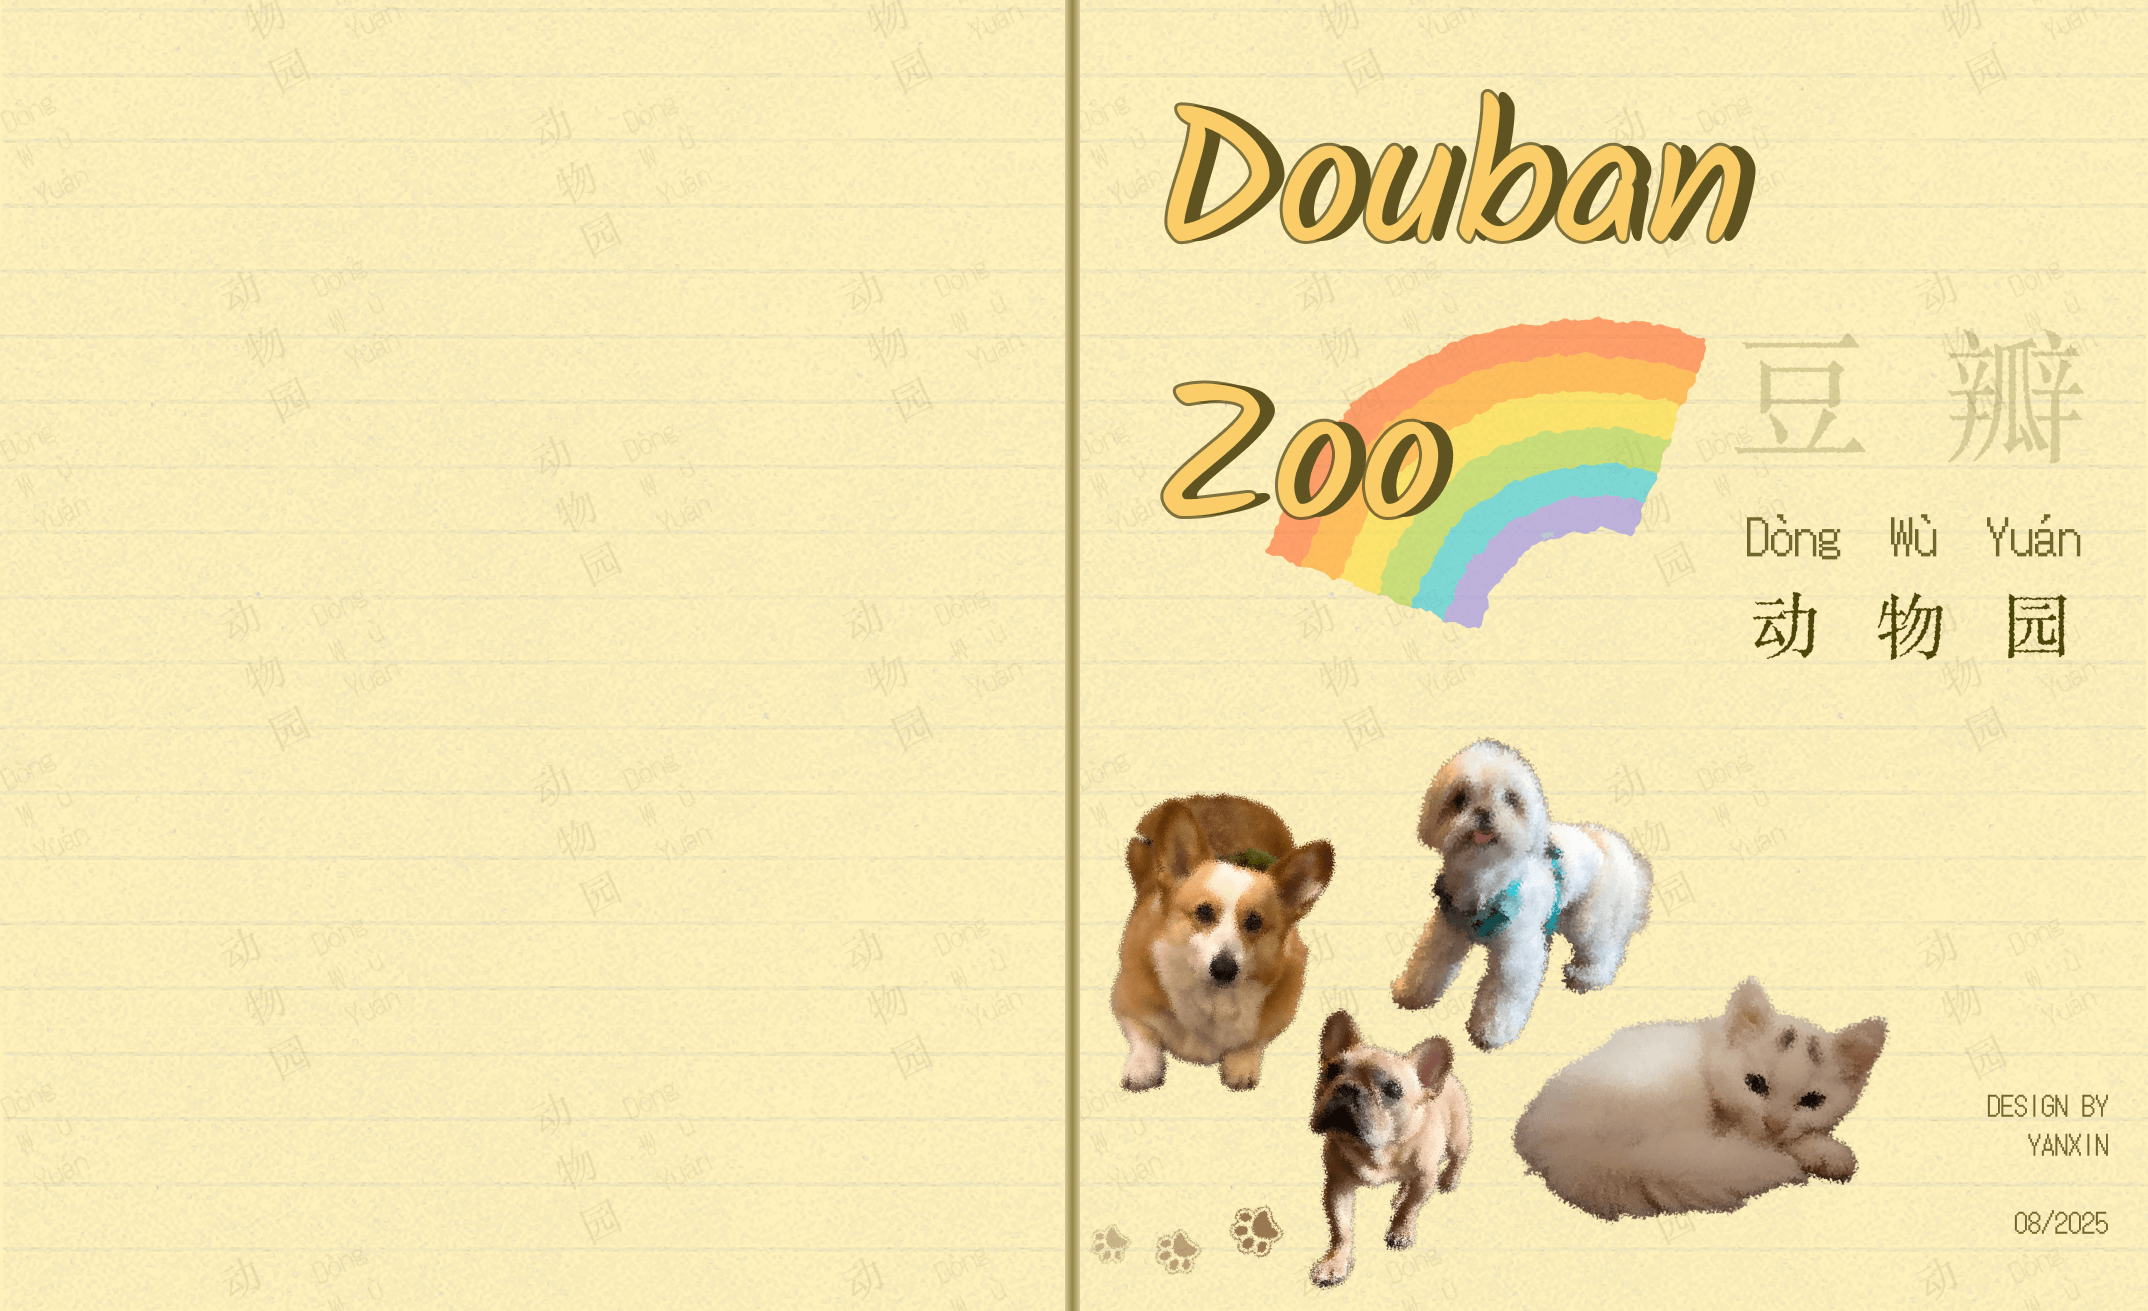
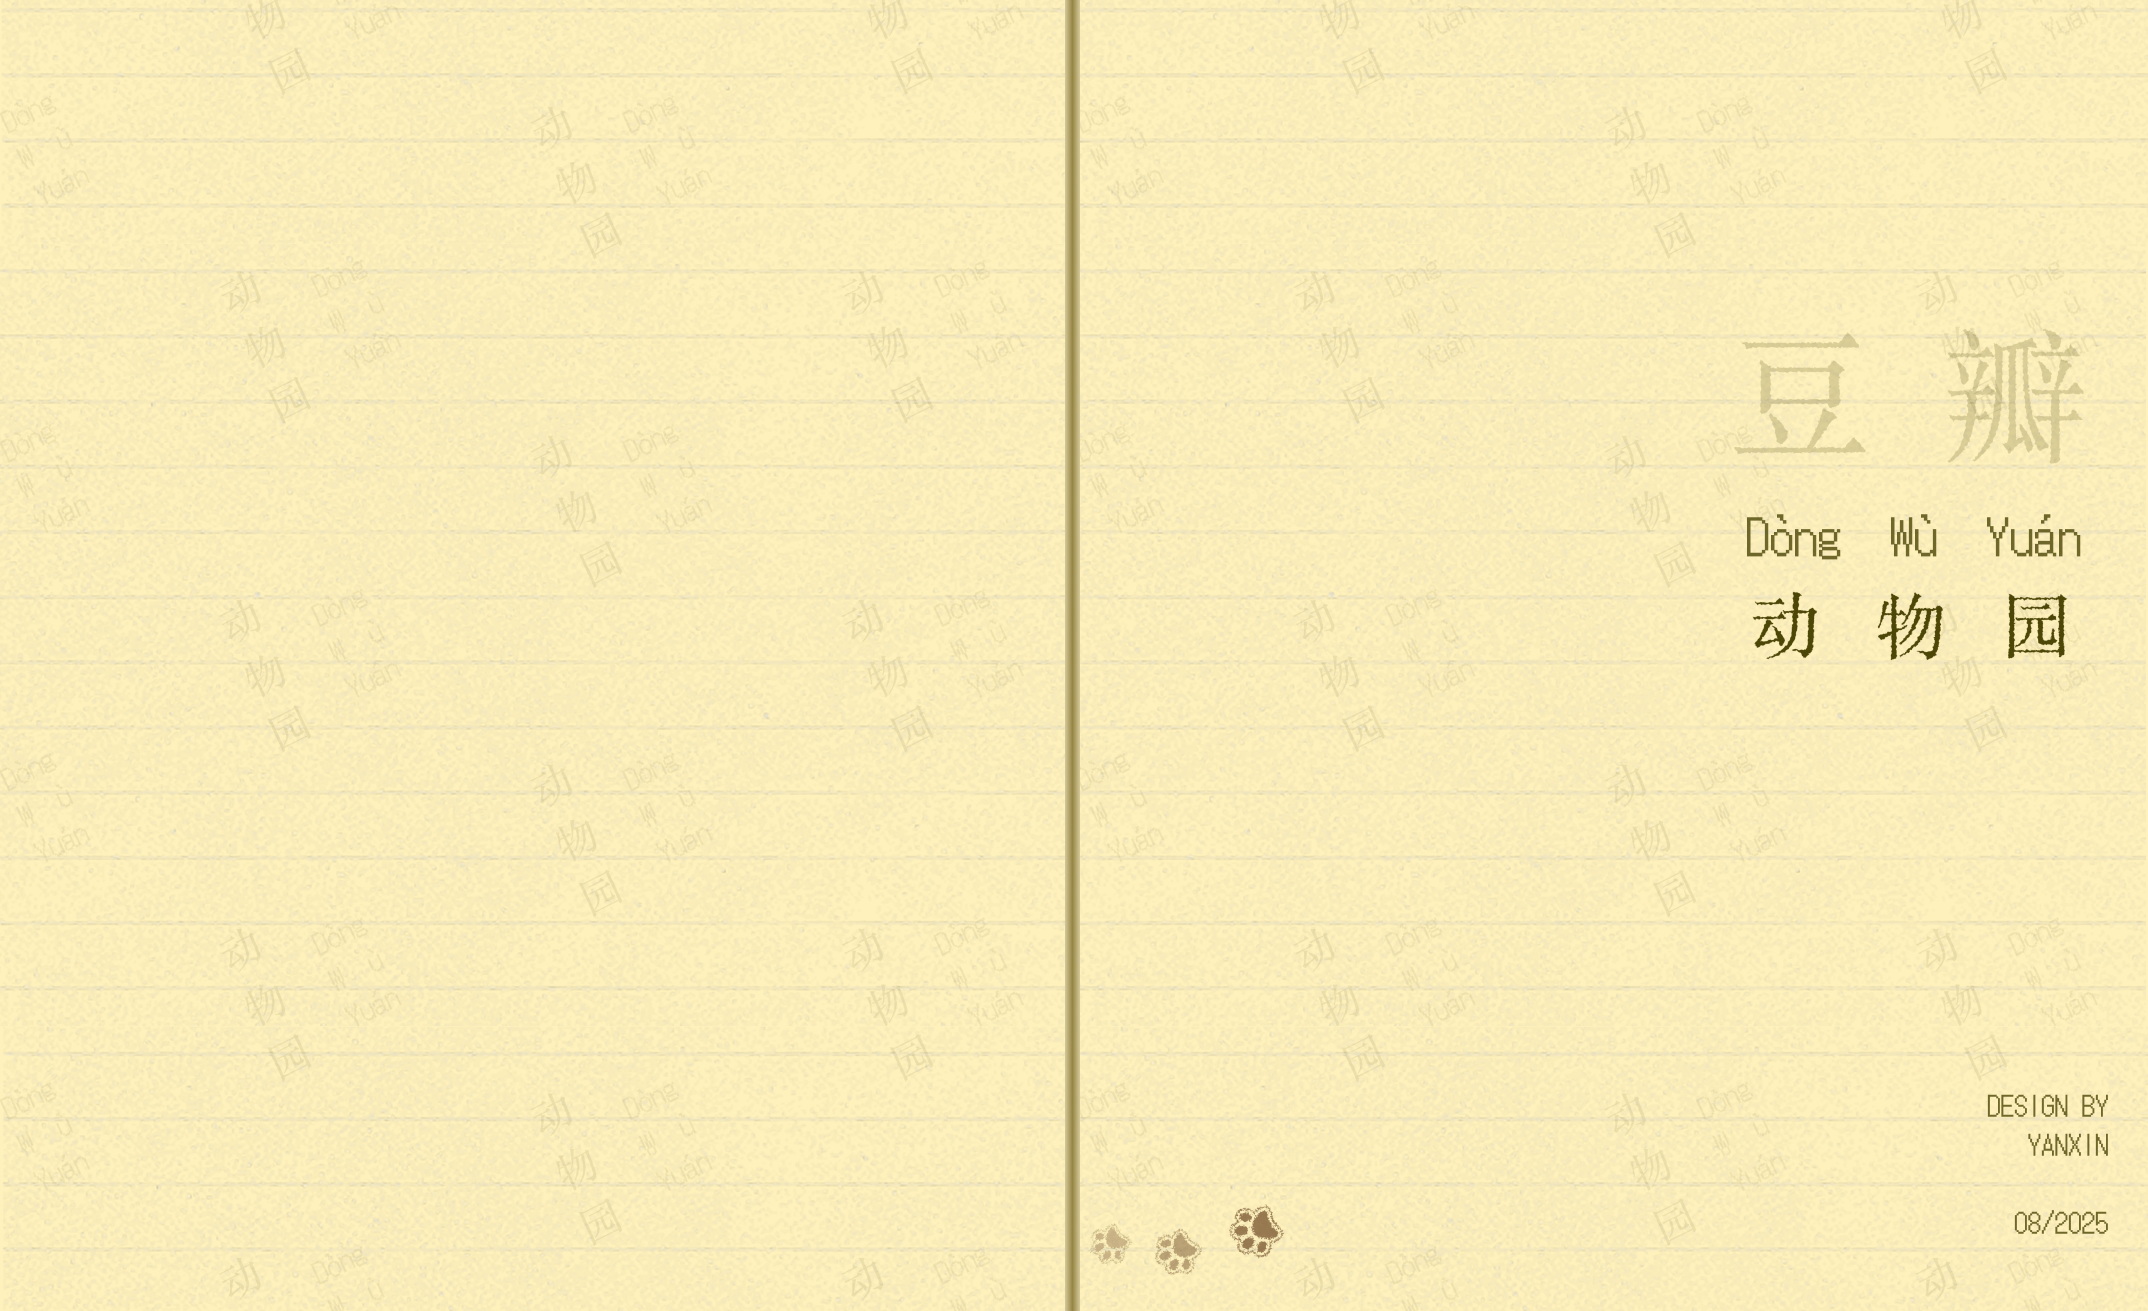
chore: update home page

Changed region(s): [[0.4991, 0.5492, 0.8734, 0.9764], [0.5303, 0.2441, 0.811, 0.4882], [0.5303, 0.061, 0.8422, 0.1831]]

diff --git a/src/lib/BookScene.ts b/src/lib/BookScene.ts
@@ -5,8 +5,8 @@ import { IconManager } from './IconManager';
 import { VideoOverlayManager } from './VideoOverlayManager';
 import { isDev } from "../utils/env";
 import { currentPage } from '../store';
-import { FontLoader } from 'three/examples/jsm/loaders/FontLoader.js';
-import { TextGeometry } from 'three/examples/jsm/geometries/TextGeometry.js';
+import { FontLoader } from 'three/examples/jsm/Addons.js';
+import { TextGeometry } from 'three/examples/jsm/Addons.js';
 
 type DecorationPair = {
   front: THREE.Mesh;
@@ -75,8 +75,10 @@ export class BookScene {
     this.container.appendChild(this.renderer.domElement);
 
     this.setUpLight();
+    // this.setupLightControls();
+    this.handleResize();  //FIXME: 现在这个 handleResize 不可以放在后面执行
 
-    this.handleResize();
+
     window.addEventListener('resize', () => this.handleResize());
 
     this.camera.position.add(this.initialCameraOffset);
@@ -85,6 +87,12 @@ export class BookScene {
     this.camera.lookAt(
       isDev() ? new THREE.Vector3(0, 0, 0) :
         this.isMobile ? new THREE.Vector3(1.2, 0, 0) : new THREE.Vector3(0, 2, -2));
+
+
+    // helper
+    // const axesHelper = new THREE.AxesHelper(5);
+    // this.scene.add(axesHelper);
+
   }
 
   private setUpLight() {
@@ -179,19 +187,6 @@ export class BookScene {
     tl.to(this.camera.position, { ...targetPosition }, startTime);
     tl.to(currentLookAt, { ...targetLookAt }, startTime);
     tl.to(currentUp, { ...targetUp }, startTime);
-    if (this.homeTitle) {
-      this.homeTitle.children.forEach((child) => {
-        tl.to((child as THREE.Mesh).material, {
-          opacity: 0,
-          duration: 2,
-          ease: 'power3.inOut',
-          onComplete: () => {
-            if (this.homeTitle) this.book.remove(this.homeTitle);
-          }
-        }, startTime);
-      }
-      );
-    }
   }
 
   get openingAnimationPlayed() {
@@ -201,7 +196,7 @@ export class BookScene {
   public update(progress: number) {
     if (!this.pages.length) return;
 
-    if (!this.openingAnimationPlayed) {
+    if (!this.openingAnimationPlayed && progress > 0) {
       return;
     }
 
@@ -211,11 +206,28 @@ export class BookScene {
     const pageRotations: number[] = [];
     const pProgress = progress / perSegment;
 
-    if (progress < perSegment) {
+    if (progress > 0 && progress < perSegment) {
       this.camera.position.x = THREE.MathUtils.lerp(config.pageWidth / 2, 0, pProgress);
-
       if (this.isMobile) {
         this.camera.position.z = THREE.MathUtils.lerp(this.closedCameraZ, this.normalCameraZ, pProgress);
+      }
+      if (this.homeTitle) {
+        this.homeTitle.children.forEach((child) => {
+          child.children.forEach((c) => {
+            if (!(c instanceof THREE.Mesh)) {
+              return
+            }
+            gsap.to(c.material, {
+              opacity: 1 - pProgress * 2, duration: 0.5,
+              onComplete: () => {
+                if (c.material.opacity <= 0) {
+                  c.visible = false;
+                }
+              }
+            })
+          });
+        })
+
       }
     }
 
@@ -236,7 +248,7 @@ export class BookScene {
       const pageStartProgress = (i - 2) * perSegment;
       const pageEndProgress = (i + 2) * perSegment;
 
-      if (progress < pageStartProgress || progress > pageEndProgress) {
+      if (progress > 0 && progress < pageStartProgress || progress > pageEndProgress) {
         page.visible = false;
         continue;
       }
@@ -419,69 +431,109 @@ export class BookScene {
     pivot.position.z = (config.numPages - i) * config.pageDepth;
 
     if (i === 0) {
-      this._createHomeTitle(i, fontLoader);
+      this._createHomeMesh(fontLoader);
     }
 
     return pivot;
   }
-
-  private _createHomeTitle(i: number, fontLoader: FontLoader) {
-    const rainbowTexteure = new THREE.TextureLoader().load(assets.textures.rainbow, (texture) => {
-      texture.colorSpace = THREE.SRGBColorSpace;
-      // texture.wrapS = THREE.RepeatWrapping;
-      texture.wrapT = THREE.RepeatWrapping;
-      // texture.rotation = Math.PI /3;
-    });
-
-    const sideConfig = {
-      fontSize: this.isMobile ? config.pageHeight * 0.16 : config.pageHeight * 0.2,
-      position: this.isMobile ? new THREE.Vector3(-config.pageWidth / 2 + 0.4, 0, (config.numPages - i) * config.pageDepth + 0.01) : new THREE.Vector3(-config.pageWidth / 2, 0, (config.numPages - i) * config.pageDepth + 0.01),
-
-    };
-
-    const topConfig = {
-      fontSize: this.isMobile ? config.pageHeight * 0.07 : config.pageHeight * 0.08,
-      position: this.isMobile ? new THREE.Vector3(-0.15, config.pageHeight / 2 + 0.6, (config.numPages - i) * config.pageDepth - 0.3) : new THREE.Vector3(-0.2, config.pageHeight / 2 + 0.4, (config.numPages - i) * config.pageDepth + 0.01),
-    };
-
-
-
-    fontLoader.load(assets.fonts.simsun, (font) => {
-
-      const sideTextGeometry = new TextGeometry('豆\n发', {
-        font: font,
-        size: sideConfig.fontSize,
-        depth: 0.05,
-        curveSegments: 12,
-        bevelEnabled: false
-      });
-      const textMaterial = new THREE.MeshStandardMaterial({
-        map: rainbowTexteure,
-        transparent: true,
-        metalness: 0.02,
-        roughness: 0.1,
-      });
-      const sideTextMesh = new THREE.Mesh(sideTextGeometry, textMaterial);
-      sideTextMesh.position.set(sideConfig.position.x, sideConfig.position.y, sideConfig.position.z);
-
-      const titleTextGeometry = new TextGeometry('（2005）第 008 号', {
-        font: font,
-        size: topConfig.fontSize,
-        depth: 0.05,
-        curveSegments: 12,
-        bevelEnabled: false
-      });
-      const titleTextMesh = new THREE.Mesh(titleTextGeometry, textMaterial);
-      titleTextMesh.position.set(topConfig.position.x, topConfig.position.y, topConfig.position.z);
-      titleTextMesh.rotation.x = Math.PI / 4;
-
+  private _createHomeMesh(fontLoader: FontLoader) {
+    fontLoader.load(assets.fonts.solitreo, (font) => {
       this.homeTitle = new THREE.Group();
-      this.homeTitle.add(sideTextMesh);
-      this.homeTitle.add(titleTextMesh);
-      this.book.add(this.homeTitle);
 
+      // Douban box
+      const zooBoxGeo = new THREE.BoxGeometry(1.3, 0.4, 0.4);
+      const zooBoxMat = new THREE.MeshStandardMaterial({
+        color: 0xF9E36C,
+        roughness: 0.1,
+        transparent: true,
+        opacity: 1,
+      });
+      const zooBox = new THREE.Mesh(zooBoxGeo, zooBoxMat);
+      const zooGroup = new THREE.Group();
+      zooGroup.add(zooBox);
+
+      const zooTextGeo = new TextGeometry('Zoo', {
+        font: font,
+        size: 0.6,
+        depth: 0.05,
+        curveSegments: 12,
+      });
+      zooTextGeo.center();
+      const zooTextMat = new THREE.MeshStandardMaterial({
+        color: 0xFD9F69,
+        roughness: 0.2,
+        transparent: true,
+      });
+      const zooText = new THREE.Mesh(zooTextGeo, zooTextMat);
+      zooText.position.y = zooBoxGeo.parameters.height / 2 + 0.4;
+      zooText.position.z += 0.1;
+      zooGroup.add(zooText);
+
+      if (this.isMobile) {
+        zooGroup.position.set(config.pageWidth, 0.2, config.pageHeight * 0.8);
+        zooGroup.rotation.y = -Math.PI / 2;
+
+      } else {
+        zooGroup.position.set(config.pageWidth * 0.5, 0, 0);
+        zooGroup.rotation.y = -Math.PI / 12;
+      }
+      this.homeTitle.add(zooGroup);
+
+      // Zoo box
+      const doubanBoxGeo = new THREE.BoxGeometry(2.3, 0.4, 0.4);
+      const doubanBoxMat = new THREE.MeshStandardMaterial({
+        color: 0xFFBF5E,
+        roughness: 0.2,
+        transparent: true,
+        opacity: 1,
+
+      });
+      const doubanBox = new THREE.Mesh(doubanBoxGeo, doubanBoxMat);
+      const doubanGroup = new THREE.Group();
+      doubanGroup.add(doubanBox);
+
+      const doubanTextGeo = new TextGeometry('Douban', {
+        font: font,
+        size: 0.5,
+        depth: 0.05,
+        curveSegments: 12,
+      });
+      doubanTextGeo.center();
+      const doubanTextMat = new THREE.MeshStandardMaterial({
+        color: 0xEfFFAE,
+        // metalness: 0.1,
+        roughness: 0.1,
+        transparent: true,
+
+      });
+      const doubanText = new THREE.Mesh(doubanTextGeo, doubanTextMat);
+      doubanText.position.y = doubanBoxGeo.parameters.height / 2 + 0.4;
+      doubanText.position.z += 0.1;
+      doubanText.position.x -= 0.1;
+      doubanGroup.add(doubanText);
+
+      if (this.isMobile) {
+        doubanGroup.position.set(config.pageWidth / 2, 0, 0);
+        doubanGroup.rotation.x = -Math.PI / 16;
+      }
+      else {
+
+        doubanGroup.position.set(-config.pageWidth / 3, 0, 0);
+        doubanGroup.rotation.y = Math.PI / 16;
+
+      }
+      this.homeTitle.add(doubanGroup);
+
+      // 整体
+      this.homeTitle.position.x = -config.pageWidth * 0.3;
+      this.homeTitle.rotation.x = Math.PI / 2;
+      this.homeTitle.scale.set(0.8, 0.8, 0.8);
+      this.homeTitle.rotation.y = Math.PI / 2;
+      this.book.add(this.homeTitle);
     });
   }
+
+
 
   private _createDecorations(i: number, textureLoader: THREE.TextureLoader, z: number): DecorationPair[] {
     const decorations = assets.decorations[i] || [];

diff --git a/src/components/Footer.svelte b/src/components/Footer.svelte
@@ -2,16 +2,16 @@
   import {currentPage} from '../store';
   import {fade} from 'svelte/transition';
 
-  $: visible = $currentPage === 0;
+  $: visible = $currentPage >= 0;
 </script>
 
 {#if visible}
   <div
-    class="fixed bottom-1 px-2 md:px-5 w-full flex font-serif items-center justify-between text-[#D4E3B9]"
+    class="fixed bottom-1 px-2 md:px-5 w-full flex font-serif items-center justify-between text-white/50"
     transition:fade={{duration: 200}}
   >
-    <div class="flex items-center text-sm gap-2">
-      <span class="text-[#2C763F]"> Douban Zoo </span>
+    <div class="flex items-center text-sm gap-1 md:gap-2">
+      <span class="text-black/30"> Douban Zoo </span>
       <a
         href="https://piggy.lol"
         target="_blank"
@@ -19,14 +19,18 @@
       >
     </div>
 
-    <div class="text-xs text-center whitespace-pre-line hidden md:block max-w-md">
-      If you are a former Douban employee and would like your pet to be featured on the site, please reach out to <a
+    <div class="text-xs text-center whitespace-pre-line hidden md:block max-w-md mb-[2px]">
+      If you are a former Douban employee and would like your pet
+      to be featured on the site, please reach out to <a
         href="mailto:anigiscur@gmail.com">Yanxin</a
       >.
     </div>
+    <div  class="text-[0.65rem] text-center font-serif block md:hidden">
+      豆发（2005）第 008 号
+    </div>
 
-    <div class="flex items-center text-sm gap-2">
-      <span class="text-[#2C763F]">Share to</span>
+    <div class="flex items-center text-sm gap-1 md:gap-2">
+      <span class="text-black/30">Share to</span>
       <a
         href={`https://www.douban.com/share/service?href=${encodeURIComponent(window.location.href)}&name=${encodeURIComponent('Douban Zoo - A 3D interactive experience of Douban pets yearbook')}&image=${encodeURIComponent('https://douban-zoo.github.io/imgs/bg/cover.png')}`}
         target="_blank"

diff --git a/src/config.ts b/src/config.ts
@@ -83,6 +83,7 @@ export function getPageId(index: number) {
 export const assets = {
   fonts:{
     simsun: asset('fonts/SimSun_Regular.json'),
+    solitreo: asset('fonts/Solitreo_Regular.json'),
   },
   media: [
     {},
@@ -132,7 +133,10 @@ export const assets = {
     asset('imgs/bg/xgh.png'),
   ],
   decorations: [
-    [],
+    [
+      { texture: asset('imgs/dec/cover1.png'), parallaxFactor: 0.2, offset: { x: 1.04, y: -0.09, z: 0.016 }, scale: 1.29 },
+      { texture: asset('imgs/dec/cover2.png'), parallaxFactor: 0.1, offset: { x: 1.15, y: -0.08, z: 0.015 }, scale: 1.28 },
+    ],
     [
       { texture: asset('imgs/dec/meidi1.png'), parallaxFactor: 0.2, offset: { x: 2, y: -0.1, z: 0.016 }, scale: 1.25 },
       { texture: asset('imgs/dec/meidi2.png'), parallaxFactor: 0.1, offset: { x: 0.85, y: -0.05, z: 0.015 }, scale: 1.3 },
